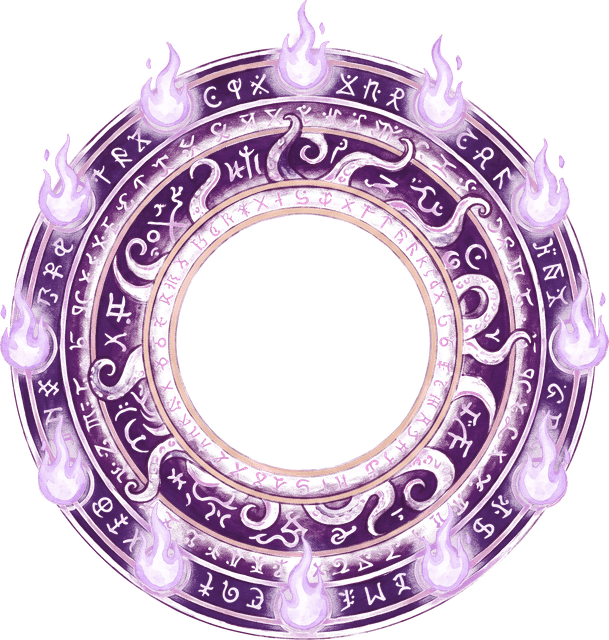
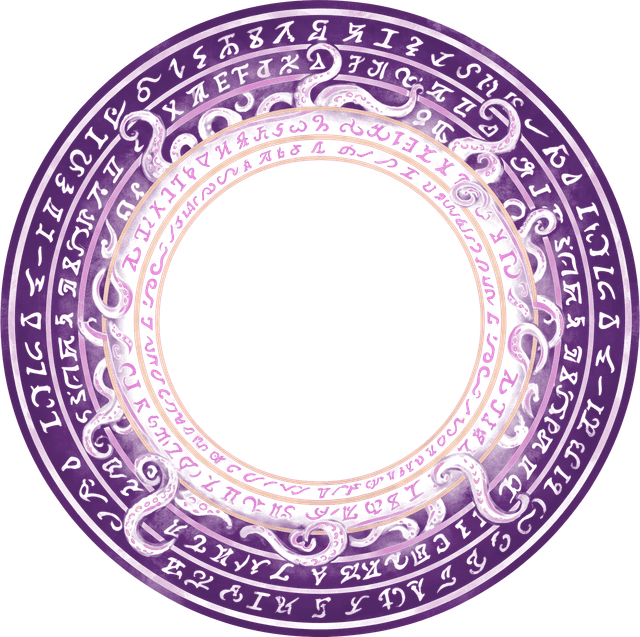
Seas: the charge is a beam, and the portal's flames burn
THE BEAM. The activation flourish was flat rings closing on the hull; it is a
vertical cylinder of light around her now. The cylinder is sold by two cheap
facts: the column is brightest at its EDGES — a horizontal gradient, which is
what a lit tube looks like from outside — and light streams UPWARD inside it,
one streak layer doubled and sliding on transform so the loop is seamless.
Anchored at the waterline 46px below screen centre, where the boat always is,
so it needs no world maths at all.

THE FLAMES. Tier 4 carries eight at the rim, tier 5 twelve, and they flicker
— paint cannot, and a flame that does not move is a lamp. They are CSS, not a
sprite: the sprite route came back with the model's own transparency
checkerboard baked through the glow twice, and at 22-30px a two-gradient
teardrop is indistinguishable from paint, tints itself from the tier's
accent, and cannot come back dithered. The flicker is hinged at the base and
staggered on a prime-ish stride so no two ever sync — twelve flames breathing
in step is machinery. The t4/t5 plates are regenerated without painted flames
to make room; t5's palette encoding was also dropping its open centre to
white, fixed by the re-encode.

PERFORMANCE, since it was asked for by name: every moving part here animates
on transform and opacity only. The flames are a dozen tiny composited
teardrops sharing one keyframe; the beam is three layers whose gradients
[…]

diff --git a/web/app/(app)/sea/SeaMap.tsx b/web/app/(app)/sea/SeaMap.tsx
@@ -4865,35 +4865,63 @@ hullRef={hullRefFor(t.key)} />
           const t = PORTAL_TIERS.find(pt => pt.tier === portalTier) ?? PORTAL_TIERS[0]
           return (
             <motion.div key="portal-charge" aria-hidden
-              initial={{ opacity: 0 }} animate={{ opacity: 1 }} exit={{ opacity: 0, transition: { duration: 0.25 } }}
+              initial={{ opacity: 0 }} animate={{ opacity: 1 }} exit={{ opacity: 0, transition: { duration: 0.3 } }}
               style={{
                 position: 'absolute', inset: 0, zIndex: Z.crossing,
-                display: 'flex', alignItems: 'center', justifyContent: 'center',
                 pointerEvents: 'none',
               }}>
-              {/* Three rings, staggered, closing IN on the boat — the water
-                  gathering, not the boat exploding. */}
-              {[0, 0.18, 0.36].map(d => (
-                <motion.div key={d}
-                  initial={{ scale: 2.6, opacity: 0 }}
-                  animate={{ scale: 0.35, opacity: [0, 0.85, 0] }}
-                  transition={{ duration: 0.9, delay: d, ease: 'easeIn' }}
-                  style={{
-                    position: 'absolute', width: 260, height: 156, borderRadius: '50%',
-                    border: `2px solid ${t.accent}`,
-                    boxShadow: `0 0 24px ${t.accent}88, inset 0 0 24px ${t.accent}44`,
-                  }} />
-              ))}
-              {/* The bloom, last: it peaks as the sheet arrives, so the sheet
-                  reads as what the light resolved into. */}
+              {/* ── THE BEAM ─────────────────────────────────────────────
+                  A vertical cylinder of light around the hull. The cylinder
+                  is sold by two cheap facts: the column is BRIGHTEST AT ITS
+                  EDGES (a horizontal gradient — that is what a lit tube
+                  looks like from outside), and light streams UPWARD inside
+                  it (one streak layer sliding on transform, doubled so the
+                  loop is seamless). Everything animates on transform and
+                  opacity only; the gradients raster once.
+
+                  Anchored at the waterline, which sits ~46px below the
+                  screen's centre — the boat is always dead centre, so the
+                  beam needs no world maths at all. */}
+
+              {/* The pool where the cylinder meets the water. */}
               <motion.div
-                initial={{ scale: 0.2, opacity: 0 }}
-                animate={{ scale: 1.35, opacity: [0, 0, 0.9] }}
-                transition={{ duration: 1.0, times: [0, 0.55, 1], ease: 'easeIn' }}
+                initial={{ scale: 0.3, opacity: 0 }}
+                animate={{ scale: 1, opacity: 1 }}
+                transition={{ duration: 0.4, ease: 'easeOut' }}
                 style={{
-                  position: 'absolute', width: 220, height: 220, borderRadius: '50%',
-                  background: `radial-gradient(circle, ${t.accent}cc 0%, ${t.accent}44 45%, transparent 70%)`,
+                  position: 'absolute', left: '50%', top: '50%',
+                  width: 260, height: 100, marginLeft: -130, marginTop: -4,
+                  borderRadius: '50%',
+                  border: `2px solid ${t.accent}cc`,
+                  background: `radial-gradient(ellipse 50% 50% at 50% 50%, ${t.accent}33 0%, ${t.accent}11 55%, transparent 75%)`,
+                  boxShadow: `0 0 30px ${t.accent}66, inset 0 0 30px ${t.accent}44`,
                 }} />
+
+              {/* The column, rising out of the pool. */}
+              <div style={{
+                position: 'absolute', left: '50%', top: '50%',
+                width: 216, height: 440,
+                transform: 'translate(-50%, calc(-100% + 46px))',
+              }}>
+                <motion.div
+                  initial={{ scaleY: 0, opacity: 0 }}
+                  animate={{ scaleY: 1, opacity: 1 }}
+                  transition={{ duration: 0.55, ease: [0.2, 0.9, 0.3, 1] }}
+                  style={{
+                    position: 'absolute', inset: 0,
+                    transformOrigin: 'bottom center',
+                    background: `linear-gradient(90deg, transparent 0%, ${t.accent}66 8%, ${t.accent}1c 30%, ${t.accent}10 50%, ${t.accent}1c 70%, ${t.accent}66 92%, transparent 100%)`,
+                    maskImage: 'linear-gradient(to top, #000 0%, #000 45%, transparent 96%)',
+                    WebkitMaskImage: 'linear-gradient(to top, #000 0%, #000 45%, transparent 96%)',
+                    overflow: 'hidden',
+                  }}>
+                  {/* The rising light inside the tube. */}
+                  <div className="sea-beam-streaks" style={{
+                    position: 'absolute', left: 0, right: 0, top: 0, height: '200%',
+                    background: `repeating-linear-gradient(0deg, transparent 0px, transparent 22px, ${t.accent}40 22px, ${t.accent}40 30px, transparent 30px, transparent 44px, rgba(255,255,255,0.22) 44px, rgba(255,255,255,0.22) 48px)`,
+                  }} />
+                </motion.div>
+              </div>
             </motion.div>
           )
         })()}
@@ -7286,6 +7314,37 @@ const PortalRing = memo(function PortalRing({ tier }: { tier: number }) {
           boxShadow: `0 0 26px ${t.accent}aa`,
         }} />
       )}
+      {/* ── THE RIM FLAMES, tiers 4 and 5 — and they burn ──────────────
+          Drawn by the chart, not painted into the plates: paint cannot
+          flicker, and a flame that does not move is a lamp. CSS, not a
+          sprite, after the sprite route came back with the model's own
+          transparency checkerboard baked through the glow — at this size a
+          two-gradient flame is indistinguishable from paint, tints itself
+          from the tier's accent, and cannot come back dithered.
+
+          Each stands at the rim, counter-squashed like everything vertical,
+          flickering on transform and opacity only, with a prime-ish delay
+          stride so no two ever sync up — twelve flames breathing in step is
+          machinery. */}
+      {tier >= 4 && Array.from({ length: tier >= 5 ? 12 : 8 }, (_, k) => {
+        const count = tier >= 5 ? 12 : 8
+        const rad = ((k / count) * 360 - 90) * (Math.PI / 180)
+        const size = tier >= 5 ? 30 : 22
+        return (
+          <div key={k} style={{
+            position: 'absolute',
+            left: Math.cos(rad) * PORTAL.r, top: Math.sin(rad) * PORTAL.r,
+            transform: `translate(-50%, -100%) scaleY(${1 / GROUND})`,
+            transformOrigin: 'bottom center',
+          }}>
+            <div className="sea-flame" style={{
+              width: size * 0.62, height: size,
+              ['--flame' as string]: t.accent,
+              animationDelay: `${(k * 0.53) % 2.1}s`,
+            }} />
+          </div>
+        )
+      })}
       <div style={{
         position: 'absolute', left: 0, top: -PORTAL.r - 30,
         transform: `translate(-50%, -100%) scaleY(${1 / GROUND})`,

diff --git a/web/app/globals.css b/web/app/globals.css
@@ -2593,12 +2593,43 @@ body.hardcore-gauntlet::after {
    on their own elements, so the loop never has to know they exist. */
 .sea-portal-swirl { animation: seaPortalBreathe 5.2s ease-in-out infinite; }
 .sea-portal-core  { animation: seaPortalBreathe 3.4s ease-in-out infinite; }
+
+/* ── THE PORTAL'S FLAMES ─────────────────────────────────────────────────────
+   A teardrop in two gradients: a white core low in the shape, the accent's
+   glow around it. The flicker is scale and opacity ONLY, hinged at the base
+   like a real flame, so a dozen of them cost the compositor a dozen tiny
+   transforms and nothing ever repaints. */
+.sea-flame {
+  border-radius: 50% 50% 50% 50% / 62% 62% 38% 38%;
+  background:
+    radial-gradient(ellipse 42% 34% at 50% 68%, rgba(255,255,255,0.95) 0%, rgba(255,255,255,0) 74%),
+    radial-gradient(ellipse 50% 50% at 50% 55%, var(--flame, #a78bfa) 0%, transparent 78%);
+  filter: none;
+  transform-origin: 50% 100%;
+  animation: seaFlameFlicker 2.1s ease-in-out infinite;
+}
+@keyframes seaFlameFlicker {
+  0%, 100% { transform: scale(1, 1); opacity: 0.85; }
+  28%      { transform: scale(0.92, 1.12) rotate(-2deg); opacity: 1; }
+  55%      { transform: scale(1.06, 0.94) rotate(1.6deg); opacity: 0.78; }
+  80%      { transform: scale(0.96, 1.06); opacity: 0.95; }
+}
+
+/* The charge beam's rising light: one doubled layer sliding half its own
+   height, so the loop is seamless and the only thing that moves is a
+   transform. */
+.sea-beam-streaks { animation: seaBeamRise 0.8s linear infinite; }
+@keyframes seaBeamRise {
+  from { transform: translateY(-50%); }
+  to   { transform: translateY(0); }
+}
 @keyframes seaPortalBreathe {
   0%, 100% { transform: scale(1); opacity: 0.85; }
   50%      { transform: scale(1.05); opacity: 1; }
 }
 @media (prefers-reduced-motion: reduce) {
-  .sea-portal-swirl, .sea-portal-core { animation: none; }
+  .sea-portal-swirl, .sea-portal-core, .sea-beam-streaks { animation: none; }
+  .sea-flame { animation: none; opacity: 0.9; }
 }
 
 /* THE HELM is a thumb control. A mouse has the whole window to point at and
